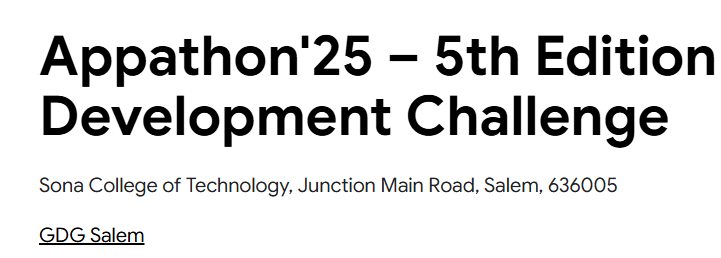
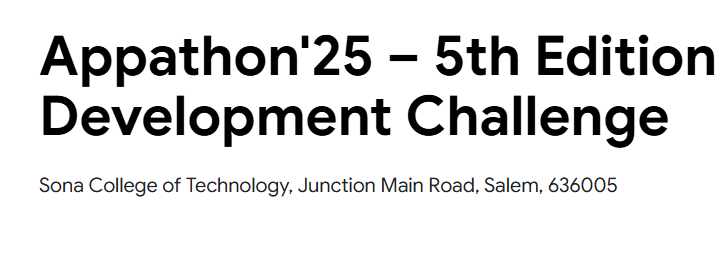
event image handler

Changed region(s): [[0.0305, 0.8682, 0.2136, 0.9612]]

diff --git a/src/components/EventOrganizing.css b/src/components/EventOrganizing.css
@@ -142,13 +142,14 @@
   width: 100%;
   height: 100%;
 }
-
-.img-appathon25 {
-  transform: scale(1.1); /* Zoom in a little bit by default */
+.banner-appathon25 {
+  padding: 0 !important;
 }
 
-.event-card:hover .img-appathon25 {
-  transform: scale(1.14); /* Smooth hover zoom transition */
+.img-appathon25 {
+  object-fit: cover !important;
+  width: 100%;
+  height: 100%;
 }
 
 @media (max-width: 768px) {
